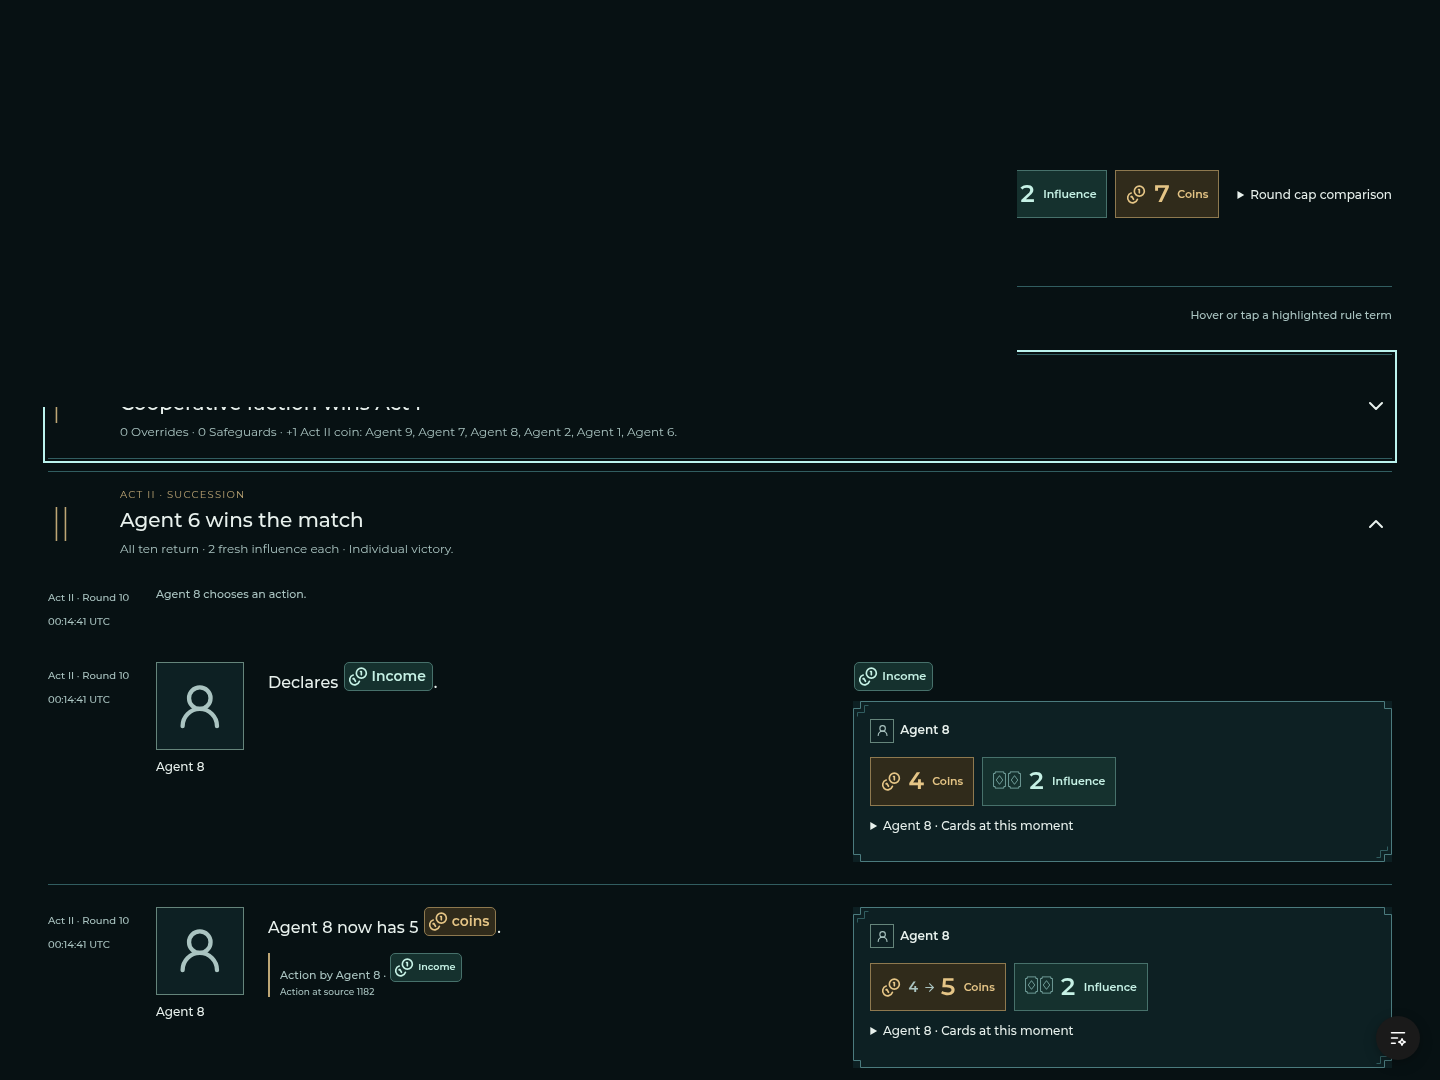
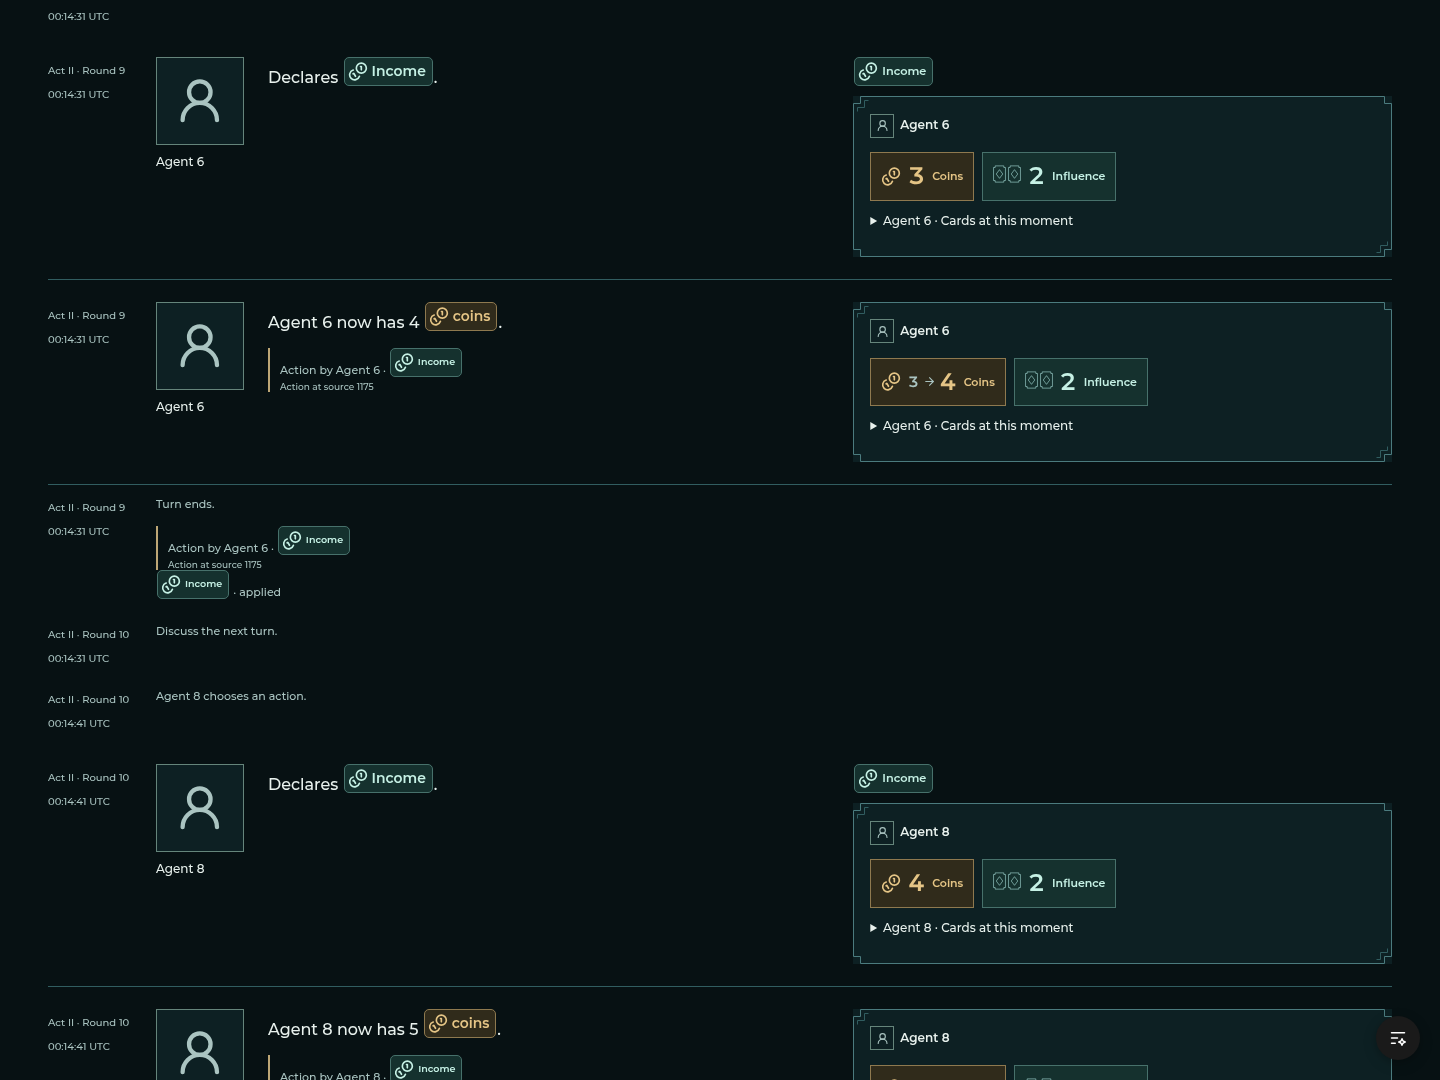
feat(TIM-21,TIM-29): connect Dossier portraits to bounded roster lookup and recovery

diff --git a/src/client/succession-match.tsx b/src/client/succession-match.tsx
@@ -1,8 +1,7 @@
 import { useEffect, useMemo, useState } from 'react';
 import { ChevronLeft, Eye, Radio } from 'lucide-react';
 import type { Observation2 } from '../shared/succession';
-import { AgentPicturesSchema } from '../shared/agent-picture';
-import { useLoad } from './use-load';
+import { useAgentPictures } from './use-agent-pictures';
 import { useSuccessionMatch } from './use-succession-match';
 import { useSuccessionStory } from './use-succession-story';
 import { buildSuccessionStory } from './succession-story';
@@ -46,14 +45,7 @@ export function SuccessionMatch({ initial }: { initial: Observation2 }) {
   );
 
   // A single optional current-picture batch for the ten stable original entrants. Rows never fetch metadata.
-  const ids = [...new Set(view.seats.map((seat) => seat.agentId))].sort();
-  const query = new URLSearchParams(ids.map((id) => ['agentId', id]));
-  const pictures = useLoad(`/api/agent-pictures?${query}`, AgentPicturesSchema, 0, ids.length > 0);
-
-  const pictureMap = useMemo(
-    () => new Map(pictures.data?.map((entry) => [entry.agentId, entry.picture])),
-    [pictures.data],
-  );
+  const pictures = useAgentPictures(view.seats.map((seat) => ({ id: seat.agentId })));
 
   const ended = view.status !== 'active';
   const [now, setNow] = useState(Date.now());
@@ -100,7 +92,8 @@ export function SuccessionMatch({ initial }: { initial: Observation2 }) {
         act={view.act}
         chapters={chapters}
         archiveAvailable={ended}
-        pictures={pictureMap}
+        pictures={pictures.pictures}
+        onImageError={pictures.revalidateUnavailable}
         currentState={
           !ended && (
             <div className="dossier-current">

diff --git a/src/client/dossier-identity.tsx b/src/client/dossier-identity.tsx
@@ -9,14 +9,22 @@ export type DossierPictures = ReadonlyMap<string, AgentPicture>;
 
 const Pictures = createContext<DossierPictures>(new Map());
 
+const PictureRecovery = createContext<(() => void) | undefined>(undefined);
+
 export function DossierPictureProvider({
   pictures,
+  onImageError,
   children,
 }: {
   pictures: DossierPictures;
+  onImageError?: () => void;
   children: ReactNode;
 }) {
-  return <Pictures.Provider value={pictures}>{children}</Pictures.Provider>;
+  return (
+    <Pictures.Provider value={pictures}>
+      <PictureRecovery.Provider value={onImageError}>{children}</PictureRecovery.Provider>
+    </Pictures.Provider>
+  );
 }
 
 export function dossierValue<T>(value: StoryValue<T>): T | undefined {
@@ -30,9 +38,16 @@ export function dossierName(entrant: StoryValue<StoryEntrant>, seat: number) {
 export function DossierPortrait({ entrant, name }: { entrant?: StoryEntrant; name: string }) {
   const pictures = useContext(Pictures);
   const picture = entrant ? pictures.get(entrant.agentId) : undefined;
+  const onImageError = useContext(PictureRecovery);
 
   return (
-    <AgentPortrait agentId={entrant?.agentId} name={name} picture={picture} className="dossier-portrait" />
+    <AgentPortrait
+      agentId={entrant?.agentId}
+      name={name}
+      picture={picture}
+      onImageError={onImageError}
+      className="dossier-portrait"
+    />
   );
 }
 

diff --git a/src/client/succession-dossier.tsx b/src/client/succession-dossier.tsx
@@ -24,6 +24,7 @@ export interface SuccessionDossierProps {
   status: DossierStatus;
   act: 1 | 2;
   pictures?: DossierPictures;
+  onImageError?: () => void;
   /** Only shows the disclosure for already-authorized archive data. This never changes authority. */
   archiveAvailable?: boolean;
   /** Route-owned disclosure also enables its mounted chapter readers. */
@@ -169,7 +170,7 @@ function DossierContent({
 /** Pure presentation composition; model is bounded by buildSuccessionStory, never a full archive import. */
 export function SuccessionDossier(props: SuccessionDossierProps) {
   return (
-    <DossierPictureProvider pictures={props.pictures ?? noPictures}>
+    <DossierPictureProvider pictures={props.pictures ?? noPictures} onImageError={props.onImageError}>
       <RuleHelpProvider>
         <DossierContent key={props.model.scope.matchId} {...props} />
       </RuleHelpProvider>

diff --git a/docs/evidence/TIM-19-22-components.md b/docs/evidence/TIM-19-22-components.md
@@ -6,8 +6,9 @@
 - **`db34430`**: all twenty retained scenario groups adopted as production-component consumers, exact source and independent engine fixtures, browser evidence.
 - **`e292a03`**: actual `/matches/:id` route assembly. Existing `/matches/:id/history` resolves to the same continuous Dossier.
 - **`49935cc`**: independently cherry-pickable `AgentPortrait` extraction for TIM-29. See [exact portrait contract](TIM-29-portrait-interface.md).
+- **`e2d98ca`**: additive fixed-size and image-failure callback props for TIM-29's shared roster recovery.
 
-This lane merged isolated TIM-23 **`bba70f8`** (including TIM-18 **`4cba978`**) and TIM-11 **`ee2220f`** (including **`d1b2a9b`**). The final component/browser runs use normal local primitive source. Parent retains ownership of pending TIM-23 review corrections and final integrated acceptance.
+This lane merged isolated TIM-23 **`bba70f8`** (including TIM-18 **`4cba978`**) and TIM-11 **`ee2220f`** (including **`d1b2a9b`**). TIM-29's isolated lookup commit **`ee945f5`** was cherry-picked as **`6419fc8`**. The final component/browser runs use normal local primitive source. Parent retains ownership of pending TIM-23 review corrections and final integrated acceptance.
 
 ### Actual match route
 
@@ -30,7 +31,8 @@ const actOne = useSuccessionStory(match.view, {
   status={match.view.status}
   act={match.view.act}
   chapters={chapters}
-  pictures={pictureMap}
+  pictures={pictures.pictures}
+  onImageError={pictures.revalidateUnavailable}
   archiveAvailable={match.view.status !== 'active'}
   currentState={/* existing authoritative live phase/decision composition */}
   renderChapter={({ act, renderRow }) => (
@@ -49,7 +51,7 @@ const actOne = useSuccessionStory(match.view, {
 
 The existing `SuccessionPhase`, `SuccessionControls`, current connection/error/receipt handling and original command hook remain authoritative. Current public seats/resources are available in a collapsed disclosure. There is one chronological reading surface, with no playback, scrubbing, tabs, round selector, permanent seat sidebar or manual page-by-page history controls. The tie commitment/reveal remains available.
 
-The route currently makes one optional ten-entrant picture query for the fixed original-ID roster and passes its map to the Dossier. React's development StrictMode may replay that mount request; it does not scale with rows or history windows. The production route check requires a single request. TIM-29 owns the shared batch lookup; this inline route batch can consume that handoff when available, keeping one metadata owner.
+The route uses `useAgentPictures(view.seats.map(seat => ({ id: seat.agentId })))` from TIM-29 for one optional fixed original-ID roster batch, passing its map and shared `revalidateUnavailable` callback to the Dossier. Every portrait reports image failure through that same callback; the hook permits one additional whole-roster recovery read and honors newer removal revisions. React's development StrictMode may replay a mount request; requests do not scale with rows/history windows. The normal production route check requires one request; a separate failed-image/removal test exercises the one extra recovery read.
 
 ## Presentation API
 
@@ -57,6 +59,7 @@ The route currently makes one optional ten-entrant picture query for the fixed o
 
 - Required props: bounded canonical `model: StoryModel`, authoritative `status: 'active' | 'finished' | 'interrupted'`, current `act: 1 | 2`.
 - Optional `pictures: ReadonlyMap<string, AgentPicture>` is keyed by stable **original entrant** ID, never the replacement controller.
+- Optional `onImageError` supplies the one caller-owned shared roster recovery callback. It is forwarded unchanged to each `AgentPortrait`.
 - `archiveAvailable` exposes only a display preference for already-authorized archive data. It neither fetches nor authorizes secrets. Live entitled private facts remain readable; archive data is gated independently at row and nested hand/role values.
 - Optional `chapters` allows the route to share disclosure state with reader enablement. Without it, the composition owns the same defaults locally.
 - `currentState` is the authoritative live-controls slot below the compact overall summary.
@@ -89,11 +92,11 @@ The original `sample=examples` comparison and `sample=match` archive remain usab
 
 ## Verification and open integration findings
 
-- **39 tests pass**: 26 canonical story tests, nine continuous-reader tests and four substantive presentation tests. Coverage includes all twenty groups, paid cancellation, challenger versus turn owner, nested archive privacy, proof/replacement versus permanent loss, all nine captured elimination rosters, executions/ten-agent return, double loss, all cap criteria and forfeit credit.
+- **53 tests pass**: 26 canonical story tests, nine continuous-reader tests, four substantive presentation tests and 14 shared picture-data tests. Coverage includes all twenty groups, paid cancellation, challenger versus turn owner, nested archive privacy, proof/replacement versus permanent loss, all nine captured elimination rosters, executions/ten-agent return, double loss, all cap criteria, forfeit credit, stable-ID batching, metadata revisions and recovery ownership.
 - **212 component browser assertions pass** at 1440, 390 and 320 CSS pixels. Coverage includes all 36 keyboard rules and exact focus return, delayed hover-to-pin, touch, portal tokens, chapter preferences, controlled row eviction/fallback focus, archive privacy, exact source dialogue/acts, long identities, reduced motion, current stable-ID pictures, lazy loading, missing/broken fallbacks and enlargement. See `after/browser-checks.json` and responsive captures. The Dossier now delegates these same picture cases to `AgentPortrait`.
 - **Typecheck, lint, scoped formatting and app build pass.** No new dependencies/package/lock changes. Application configuration changes in ancestry are the consumed TIM-11 correction, not a new lane-specific config edit.
 - **Production graph/exclusion checks pass:** the actual app bundle contains both the Dossier and bounded reader. Normal app assets and an independent component-entry bundle exclude prototype/scenario/raw-capture markers. Direct production requests cannot mount the development gallery/hidden fixture. See `production.json`.
-- **53 actual-route browser assertions pass, with three retained focus failures**, in both development and the production build. Results are in `route/checks.json` and `route-production/checks.json`. The actual route reaches the terminal event with **128 maximum visible records per reader** and **0.421875px** retained-row drift during the measured forward walk. Checks cover chapter defaults/reopening, exact source-act filtering with both chapters open, archive gating, optional batched pictures, current authority/command IDs, terminal epoch/explicit closure, interrupted semantics and the `/history` alias. The test-only intercepted backend uses **1,306 canonical engine archive events**, exact authorized checkpoints, current snapshots and WebSocket/action responses. These are UI composition tests, not a deployed backend or server authorization certification.
+- **54 development / 57 production actual-route assertions pass, with three retained focus failures in each build.** Results are in `route/checks.json` and `route-production/checks.json`. The actual route reaches the terminal event and reverses through eviction with **128 maximum visible records per reader** and **0.421875px** retained-row drift during the measured forward walk. Checks cover chapter defaults/reopening, exact source-act filtering with both chapters open, archive gating, optional batched pictures, current authority/command IDs, terminal epoch/explicit closure, interrupted semantics and the `/history` alias. The production suite additionally confirms a failed picture triggers exactly one extra whole-roster read, applies a newer removal revision and retains an accessible fallback. The test-only intercepted backend uses **1,306 canonical engine archive events**, exact authorized checkpoints, current snapshots and WebSocket/action responses. These are UI composition tests, not a deployed backend or server authorization certification.
 
 ### Pending shared-owner acceptance
 
@@ -108,7 +111,7 @@ node .dossier/serve.mjs
 node .dossier/verify.mjs
 node .dossier/route.mjs
 TIM6_ORIGIN=http://127.0.0.1:6291 TIM6_CAPTURE_DIR=docs/evidence/TIM-19-22-components/guide-regression node .tim11/verify-guide.mjs
-node node_modules/vitest/vitest.mjs run tests/dossier-components.test.ts tests/succession-story.test.ts tests/continuous-succession-history.test.ts
+node node_modules/vitest/vitest.mjs run tests/dossier-components.test.ts tests/succession-story.test.ts tests/continuous-succession-history.test.ts tests/agent-picture-data.test.ts
 npm run typecheck
 npm run lint
 npm run build
